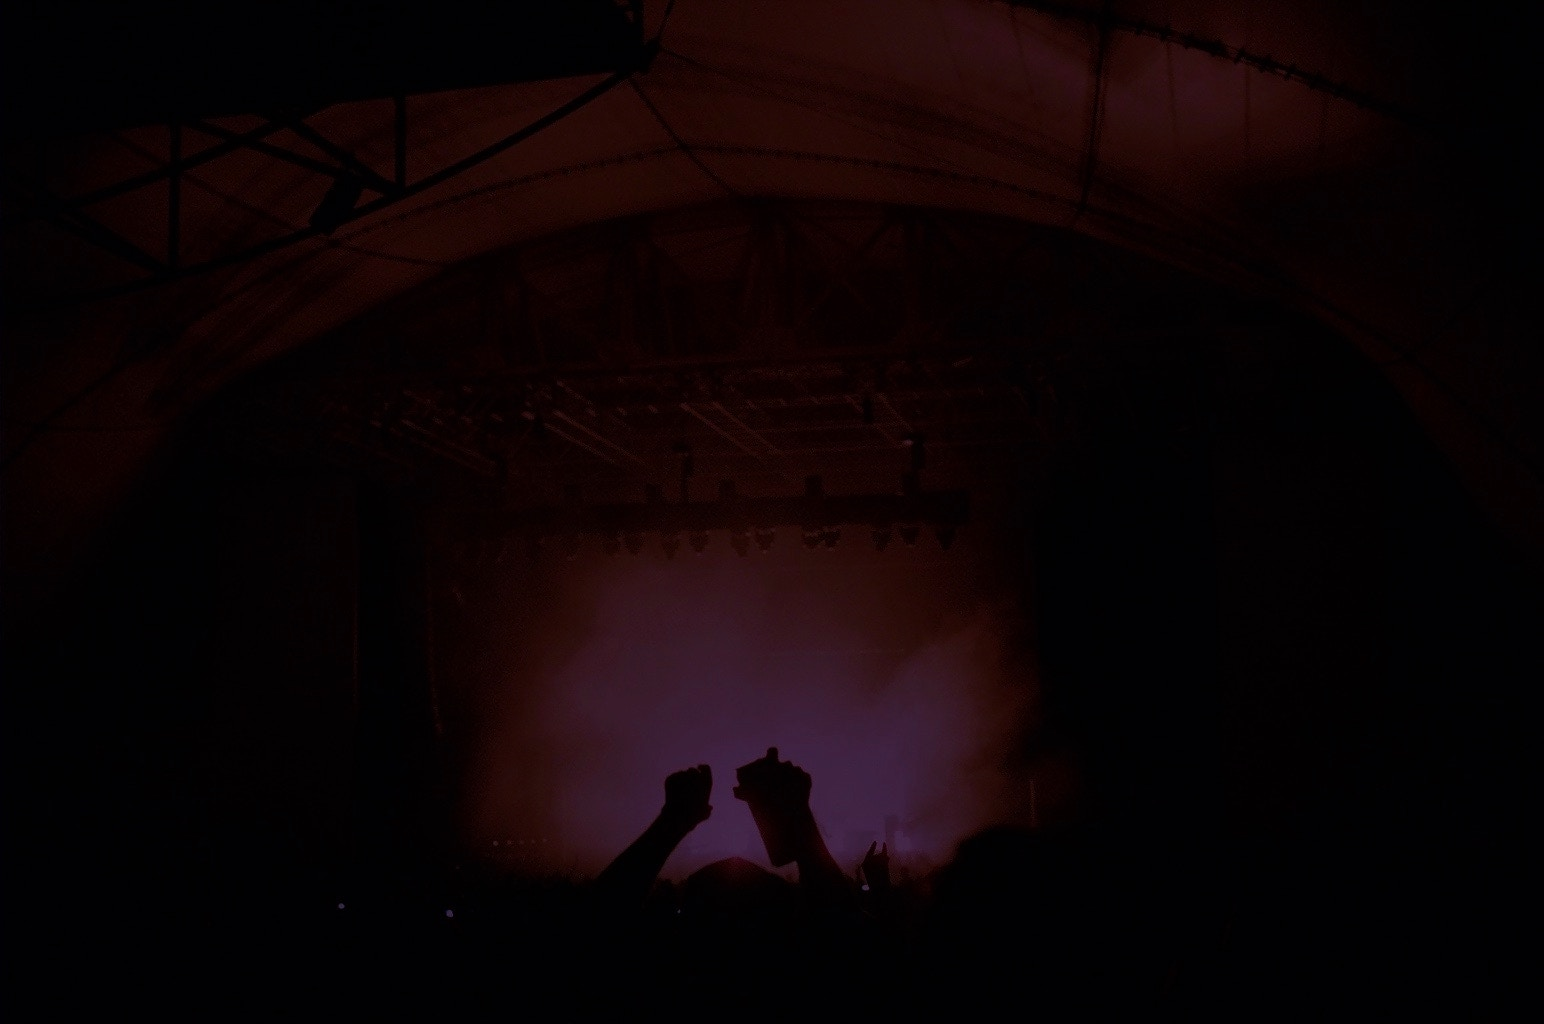
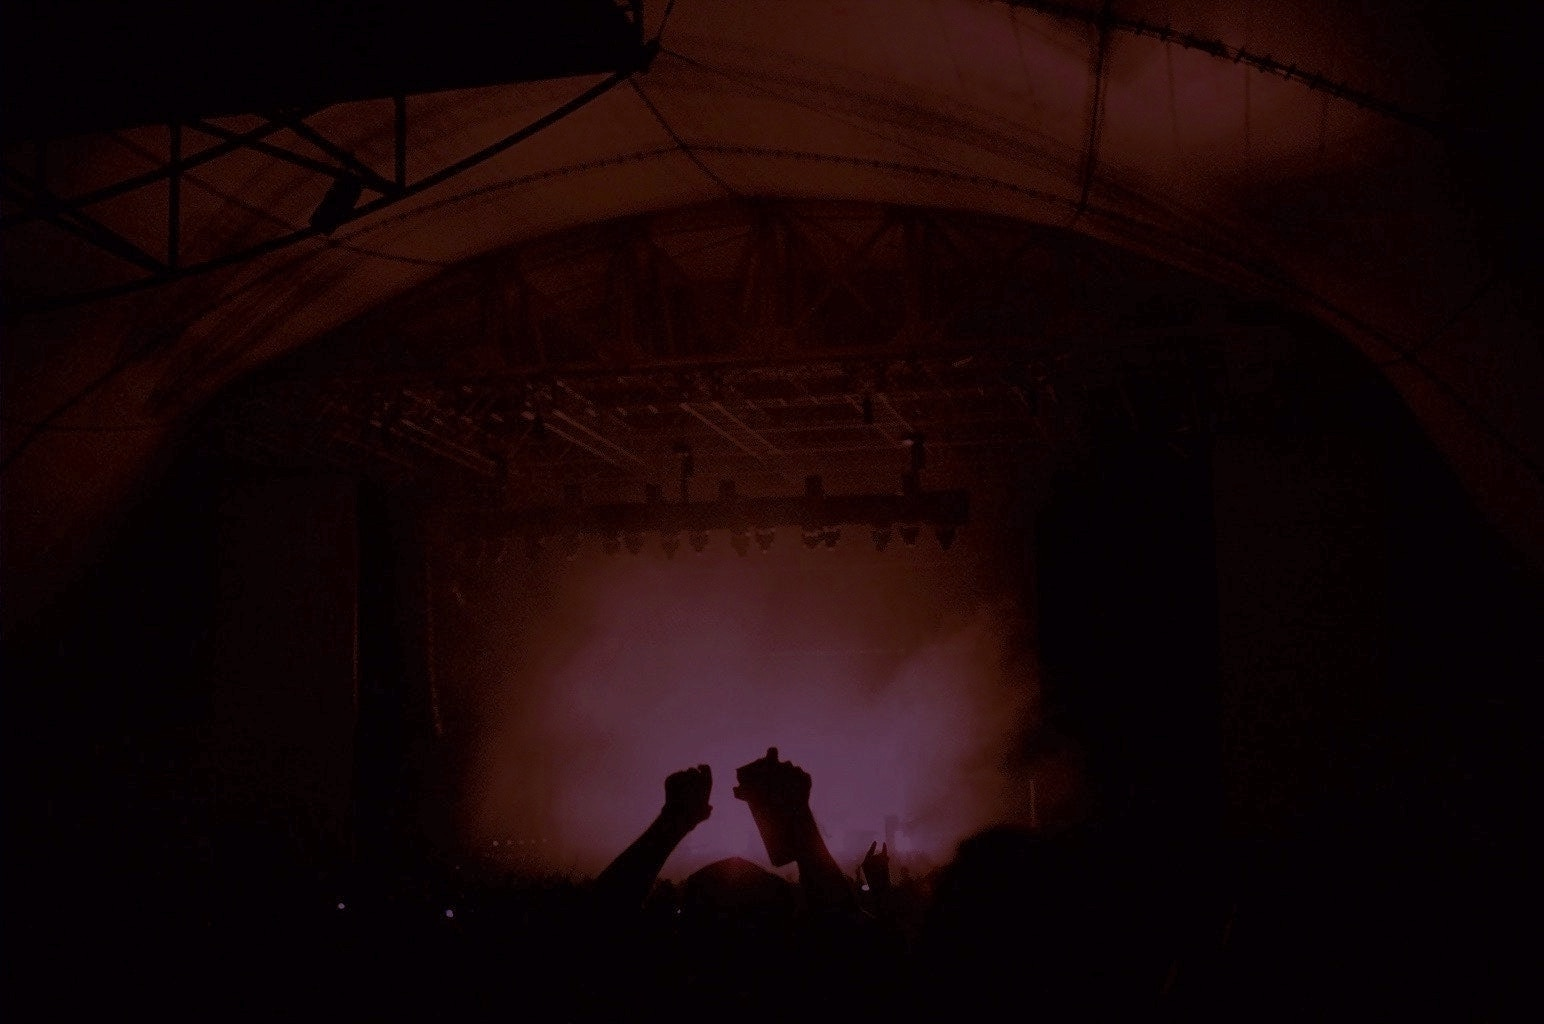
lighten image of events page

Changed region(s): [[0.3731, 0.5938, 0.6218, 0.8438]]

diff --git a/src/styles/EventPage.css b/src/styles/EventPage.css
@@ -53,7 +53,7 @@
   border: 1px solid transparent;
   padding: 10px;
   margin: 20px;
-  background-color: rgba(255, 255, 255, 0.07);
+  background-color: rgba(255, 255, 255, 0.09);
   min-height: 325px; }
 
 .event-description {

diff --git a/src/styles/EventPage.sass b/src/styles/EventPage.sass
@@ -62,7 +62,7 @@
   border: 1px solid transparent
   padding: 10px
   margin: 20px
-  background-color: rgba(255, 255, 255, 0.07)
+  background-color: rgba(255, 255, 255, 0.09)
   min-height: 325px
 
 .event-description
